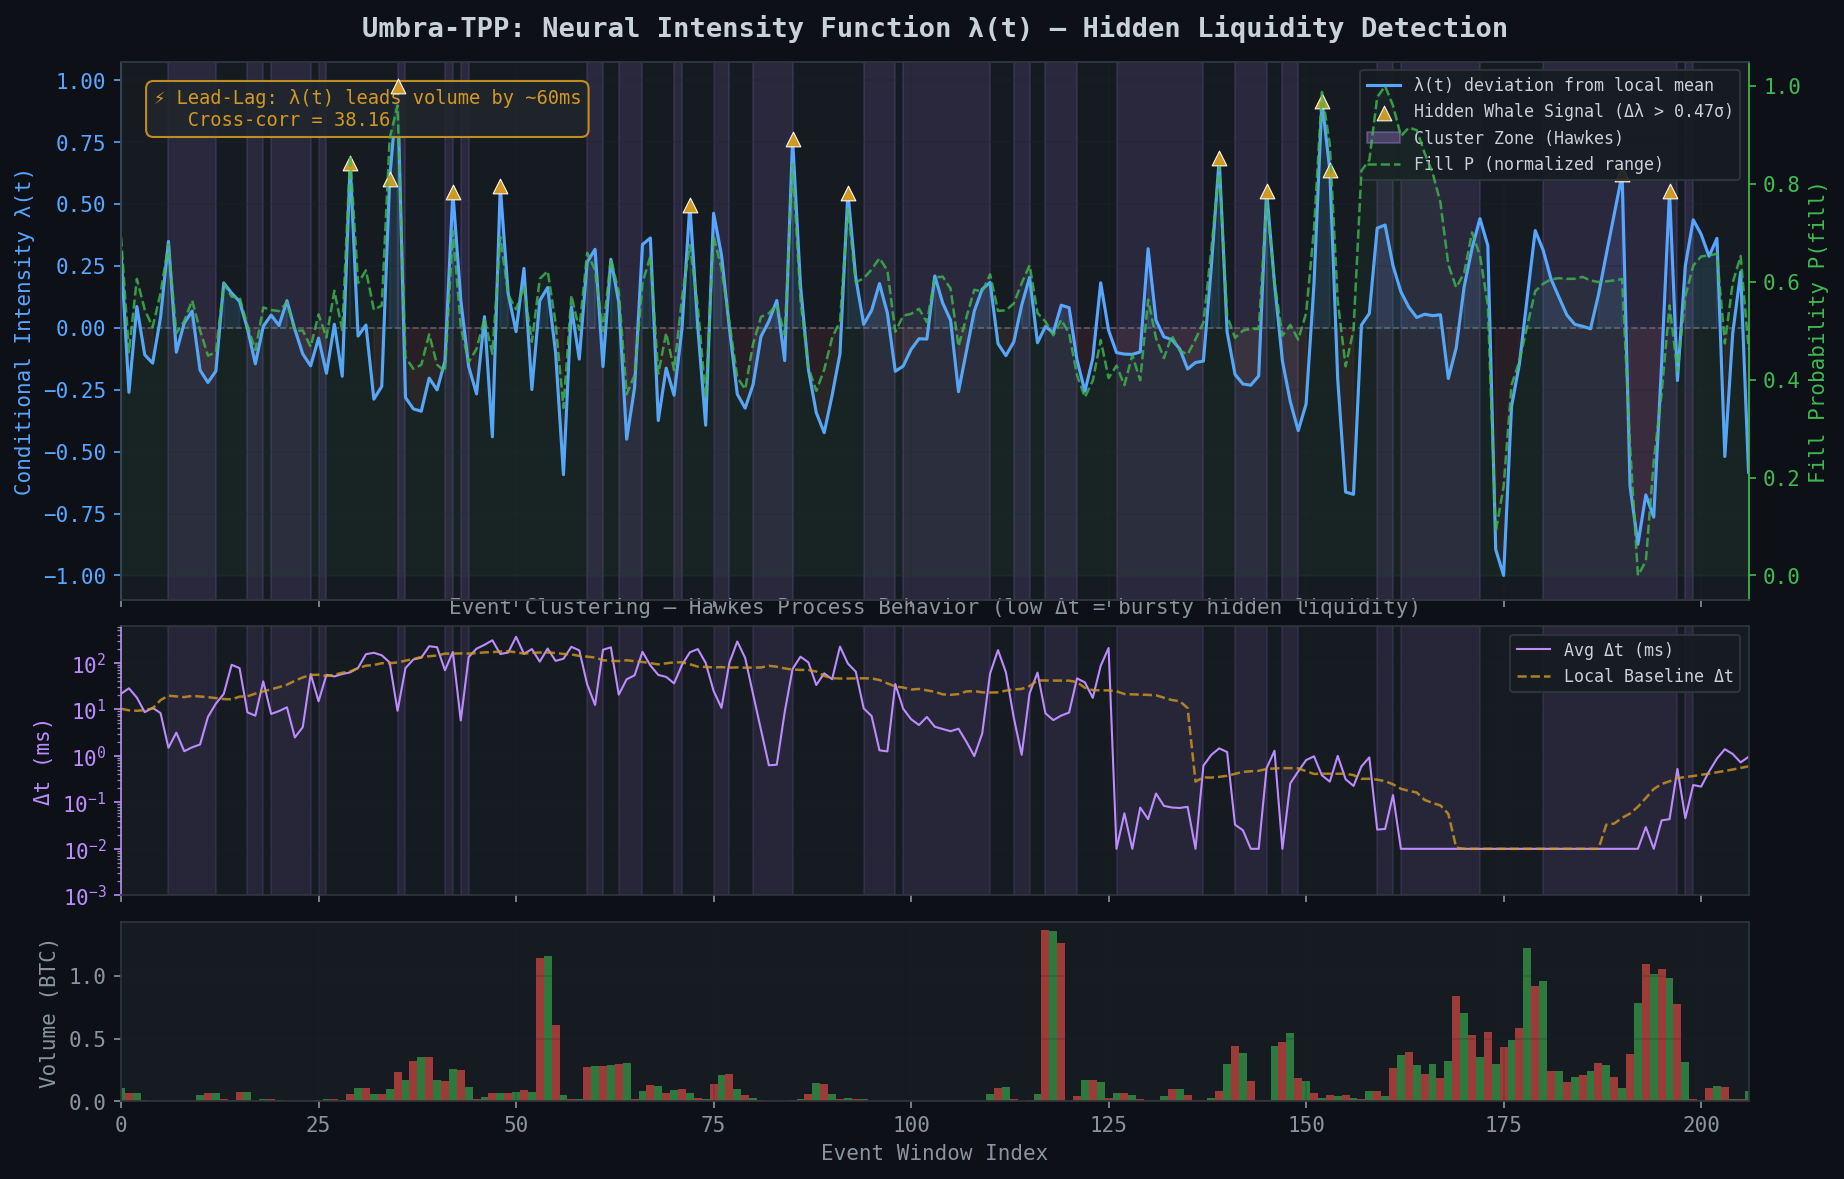
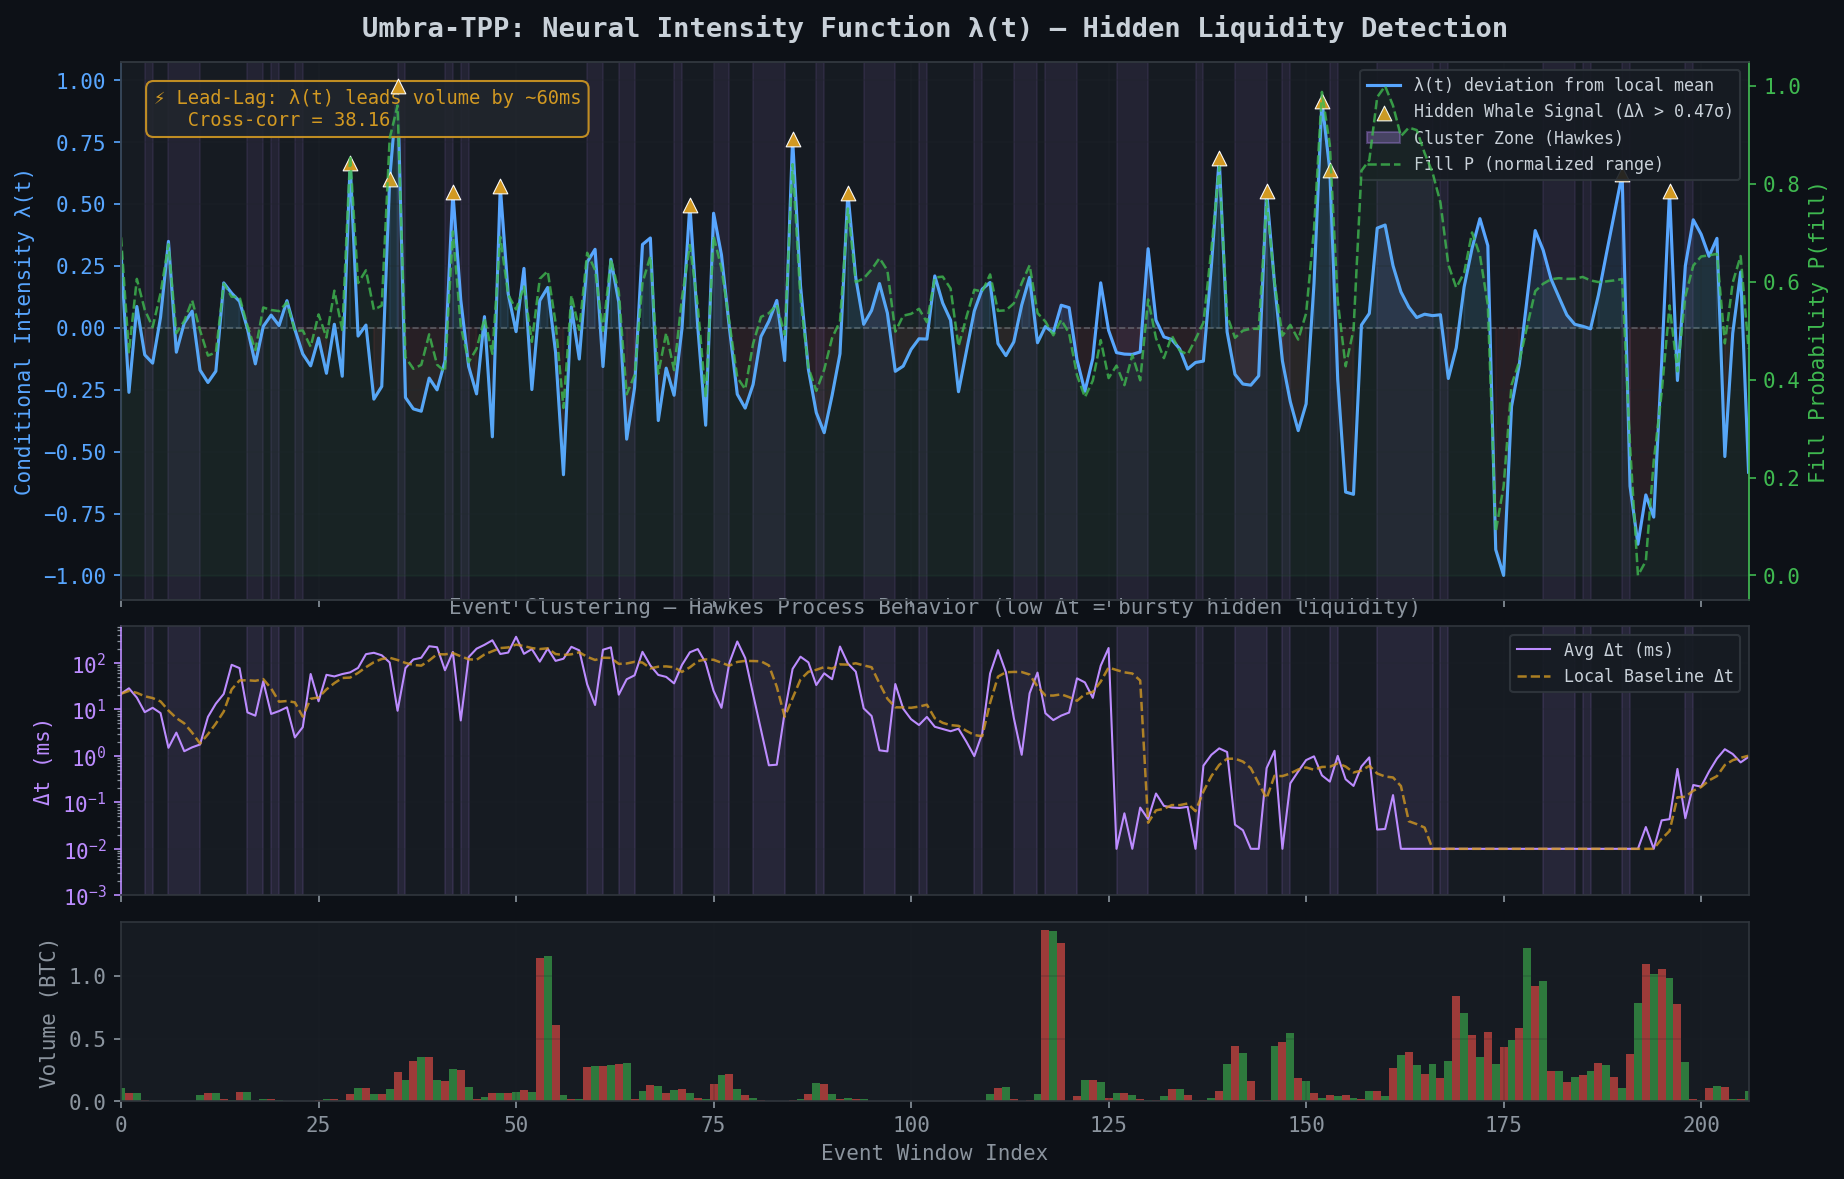
refactor: update Hawkes cluster detection logic and refine demo documentation for predictive signals

diff --git a/scripts/generate_plots.py b/scripts/generate_plots.py
@@ -169,29 +169,27 @@ def generate_intensity_plot(
             edgecolors="white", linewidths=0.5,
         )
 
-    # Shade burst/cluster zones: regions where inter-arrival times are short
-    # relative to the local baseline (Hawkes process hallmark).
-    # Using a 20-window moving average to create a dynamic threshold.
+    # We calculate the local baseline for Hawkes cluster detection.
     window_ia = np.array([
         np.mean(inter_arrivals[max(0, i - 10):i]) for i in event_indices
     ])
-    local_baseline = pd.Series(window_ia).rolling(20, min_periods=1, center=True).mean().values
-    
+    local_baseline = pd.Series(window_ia).rolling(5, min_periods=1, center=False).mean().values
+
     # A burst is purely relative: when Δt drops to or below 50% of the local baseline.
-    # The <= handles the edge case where both window_ia and local_baseline are exactly 0.
     burst_mask = (window_ia <= (local_baseline * 0.5)) & (window_ia < 1.0)
-    
+
+    # Compute burst zone boundaries
+    burst_starts, burst_ends = np.array([], dtype=int), np.array([], dtype=int)
     if burst_mask.any():
-        # Fill burst zones on the intensity panel
         burst_starts = np.where(np.diff(burst_mask.astype(int)) == 1)[0] + 1
         burst_ends = np.where(np.diff(burst_mask.astype(int)) == -1)[0] + 1
         if burst_mask[0]:
             burst_starts = np.insert(burst_starts, 0, 0)
         if burst_mask[-1]:
             burst_ends = np.append(burst_ends, len(burst_mask))
+        # Shade burst zones on the TOP panel (subtle)
         for s, e in zip(burst_starts, burst_ends):
-            ax_main.axvspan(s, min(e, len(x) - 1), alpha=0.12, color=PURPLE, zorder=1)
-        # Add to legend
+            ax_main.axvspan(s, min(e, len(x) - 1), alpha=0.08, color=PURPLE, zorder=1)
         ax_main.fill_between([], [], [], alpha=0.3, color=PURPLE, label="Cluster Zone (Hawkes)")
 
     # Lead-lag annotation
@@ -239,8 +237,8 @@ def generate_intensity_plot(
     ax_cluster.set_yscale("log")
     ax_cluster.set_ylim(bottom=0.001)
     
+    # Shade burst zones on the MIDDLE panel
     if burst_mask.any():
-        # Shade burst zones in the middle panel
         for s, e in zip(burst_starts, burst_ends):
             ax_cluster.axvspan(s, min(e, len(x) - 1), alpha=0.10, color=PURPLE, zorder=1)
     ax_cluster.set_ylabel("Δt (ms)", color=PURPLE)

diff --git a/DEMO.md b/DEMO.md
@@ -18,11 +18,11 @@ python scripts/run_demo.py --config configs/default.yaml
 
 The Neural TPP's conditional intensity function λ(t) captures the **arrival rate of hidden orders** by learning patterns from the visible "lit market exhaust" on Binance/OKX. The 3-panel plot below shows:
 
-- **Top:** Δλ(t) (cyan) shown as the deviation from its local mean, alongside fill probability (green dashed). Orange `▲` markers flag "Hidden Whale" signals when the predicted intensity surges unnaturally. Purple shading marks **cluster zones** — regions where events arrive in rapid bursts, the hallmark of a **Hawkes process**.
-- **Middle:** Inter-arrival time Δt plotted on a **logarithmic scale** to capture both slow (sparse) and hyper-dense (microsecond) trading regimes across venues. The dashed orange line marks the **dynamic local baseline**. Whenever actual trading drops $\le 50\%$ below this baseline, the plot is shaded purple as an active cluster zone. 
+- **Top:** Δλ(t) (cyan) shown as the deviation from its local mean, alongside fill probability (green dashed). Orange `▲` markers flag "Hidden Whale" signals when the predicted intensity surges unnaturally. Subtle purple shading marks **Hawkes cluster zones** — regions where trades arrive in rapid bursts.
+- **Middle:** Inter-arrival time Δt plotted on a **logarithmic scale** to capture both slow (sparse) and hyper-dense (microsecond) trading regimes across venues. The dashed orange line marks the **dynamic local trailing baseline**; purple shading triggers when Δt drops ≤ 50% below this baseline.
 - **Bottom:** Lit market volume (BTC) per event window.
 
-> 🧠 **Predictive vs. Reactive:** You will notice the orange Whale Signals often trigger *exactly as* or shortly *before* a purple cluster zone begins. The purple zone is a reactive 10-trade moving average; it confirms a burst is happening. The model (orange) instantly evaluates instantaneous order book tension (OFI, VPIN) and *predicts* the burst before the moving average can confirm it.
+> 🧠 **Predictive Tension:** The orange Whale Signals often trigger sharply *before* or right as volume bursts begin. The ML model evaluates latent order book pressure (OFI, VPIN) and *predicts* the impending liquidity sweep before it prints to the tape.
 
 ![Intensity λ(t) — Hidden Liquidity Detection](docs/plots/intensity_lambda.png)
 
